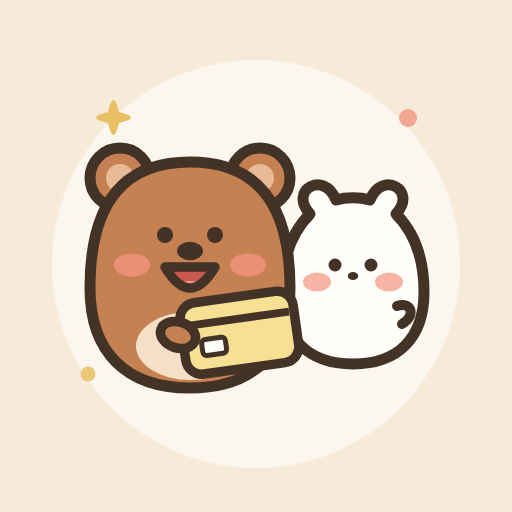
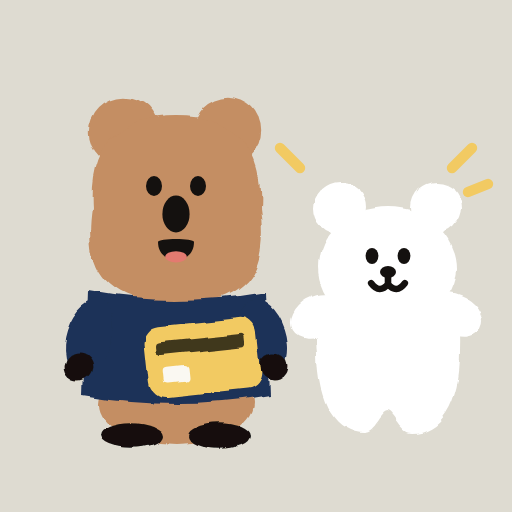
style(v13): authentic Dinotaeng lineless crayon Quokka & BOBO + oatmeal cream stationery

diff --git a/index.html b/index.html
@@ -9,41 +9,41 @@
   <meta name="apple-mobile-web-app-capable" content="yes" />
   <meta name="apple-mobile-web-app-title" content="卡神記帳" />
   <meta name="apple-mobile-web-app-status-bar-style" content="default" />
-  <meta name="theme-color" content="#FAF5EC" />
+  <meta name="theme-color" content="#ECE8DF" />
   <meta name="robots" content="noindex, nofollow" />
   <meta name="description" content="零個資風險・結合台灣信用卡權益切換提醒與圓餅圖分析的簡約奶油風記帳 App" />
   <title>卡神記帳 — 信用卡攻略 × 簡約奶油記帳</title>
-  <link rel="manifest" href="./manifest.json?v=12" />
-  <link rel="icon" type="image/png" href="./quokka-icon.png?v=12" />
-  <link rel="apple-touch-icon" href="./quokka-icon.png?v=12" />
+  <link rel="manifest" href="./manifest.json?v=13" />
+  <link rel="icon" type="image/png" href="./quokka-icon.png?v=13" />
+  <link rel="apple-touch-icon" href="./quokka-icon.png?v=13" />
   <link rel="preconnect" href="https://fonts.googleapis.com" />
   <link rel="preconnect" href="https://fonts.gstatic.com" crossorigin />
   <link href="https://fonts.googleapis.com/css2?family=Noto+Sans+TC:wght@400;500;600;700&family=Quicksand:wght@600;700&family=Zen+Maru+Gothic:wght@400;500;700&display=swap" rel="stylesheet" />
   <script src="https://cdn.tailwindcss.com"></script>
-  <script src="./qr.js?v=12"></script>
+  <script src="./qr.js?v=13"></script>
   <style>
-    /* 🧈 Quokka & BoBo 韓系簡約奶油風格 (預設跨裝置一致呈現溫暖燕麥奶色調，不受系統深色模式變黑干擾) */
+    /* 🧈 Dinotaeng Quokka & BOBO 正宗韓系簡約奶油風格 (霧面燕麥紙感 × 無黑框蠟筆插畫，不受系統深色模式變黑干擾) */
     .quokka-cream {
-      --bg-canvas: #FAF5EC;
-      --bg-surface: #FFFDF9;
-      --bg-subtle: #F4ECE0;
-      --bg-pill: #EDE2D2;
-      --text-main: #433226;
-      --text-secondary: #6E5849;
-      --text-muted: #967F70;
-      --border-hairline: #E5D7C3;
-      --accent: #B56E45;
-      --accent-soft: #F7E6D2;
-      --accent-text: #8C4E2B;
-      --bobo-butter: #F7DF94;
-      --bobo-blush: #F09884;
-      --success: #578564;
-      --success-soft: #E9F3EC;
-      --warn: #BE742A;
-      --warn-soft: #FDF0DF;
-      --danger: #C95B52;
-      --danger-soft: #FCEBE9;
-      --card-shadow: 0 8px 26px rgba(84, 58, 38, 0.055), 0 2px 6px rgba(84, 58, 38, 0.03);
+      --bg-canvas: #ECE8DF;
+      --bg-surface: #FAF8F3;
+      --bg-subtle: #EFECE4;
+      --bg-pill: #E2DFD5;
+      --text-main: #2D251E;
+      --text-secondary: #5C5044;
+      --text-muted: #8A7E70;
+      --border-hairline: #DDD7C9;
+      --accent: #C48E63;
+      --accent-soft: #F7E8BA;
+      --accent-text: #784D2A;
+      --bobo-butter: #F2CA62;
+      --bobo-blush: #E37A70;
+      --success: #4E7A5B;
+      --success-soft: #EBF3ED;
+      --warn: #B8732A;
+      --warn-soft: #FBF1DF;
+      --danger: #C64B42;
+      --danger-soft: #FCECEB;
+      --card-shadow: 0 8px 24px -6px rgba(60, 48, 36, 0.07);
     }
 
     body {
@@ -129,46 +129,54 @@
   <!-- ========================================================= -->
   <div id="accessGateOverlay" class="fixed inset-0 z-[100] bg-[var(--bg-canvas)] flex items-center justify-center p-5">
     <div class="surface-card max-w-sm w-full p-6 sm:p-7 space-y-4 text-center">
-      <div id="gateIcon" class="w-32 h-[82px] mx-auto flex items-center justify-center">
-        <svg viewBox="0 0 156 96" class="w-32 h-[82px]" fill="none" xmlns="http://www.w3.org/2000/svg" aria-hidden="true">
+      <div id="gateIcon" class="w-36 h-[92px] mx-auto flex items-center justify-center">
+        <svg viewBox="0 0 168 104" class="w-36 h-[92px]" fill="none" xmlns="http://www.w3.org/2000/svg" aria-hidden="true">
           <defs>
-            <clipPath id="gateQuokkaMouth">
-              <path d="M51 56 Q60 72 69 56 Z"/>
-            </clipPath>
+            <filter id="dtGateCrayon" x="-12%" y="-12%" width="124%" height="124%">
+              <feTurbulence type="fractalNoise" baseFrequency="0.085" numOctaves="3" seed="9" result="noise"/>
+              <feDisplacementMap in="SourceGraphic" in2="noise" scale="2.2" xChannelSelector="R" yChannelSelector="G"/>
+            </filter>
           </defs>
-          <!-- Butter Sparkle & Blush Dots -->
-          <path d="M14 20 C16 13 17 13 19 20 C26 22 26 23 19 25 C17 32 16 32 14 25 C7 23 7 22 14 20 Z" fill="#E8BF63"/>
-          <circle cx="140" cy="22" r="3.5" fill="#F09884"/>
-          <!-- BoBo Marshmallow Friend (Right) -->
-          <path d="M97 38 C89 29 102 21 107 32 C111 31 117 31 121 32 C126 21 139 29 131 38 C138 46 141 56 141 68 C141 83 131 90 114 90 C97 90 87 83 87 68 C87 56 90 46 97 38 Z"
-            fill="#FFFDF9" stroke="#433226" stroke-width="3.6" stroke-linecap="round" stroke-linejoin="round"/>
-          <ellipse cx="101" cy="64" rx="5.2" ry="3.5" fill="#F4A796" opacity="0.88"/>
-          <ellipse cx="127" cy="64" rx="5.2" ry="3.5" fill="#F4A796" opacity="0.88"/>
-          <circle cx="107.5" cy="57.5" r="2.3" fill="#433226"/>
-          <circle cx="120.5" cy="57.5" r="2.3" fill="#433226"/>
-          <ellipse cx="114" cy="61.5" rx="2" ry="1.5" fill="#433226"/>
-          <!-- Quokka Happy Friend (Left) -->
-          <circle cx="35" cy="30" r="10.5" fill="#C68152" stroke="#433226" stroke-width="3.6"/>
-          <circle cx="35" cy="30" r="4.8" fill="#E9BA98"/>
-          <circle cx="85" cy="30" r="10.5" fill="#C68152" stroke="#433226" stroke-width="3.6"/>
-          <circle cx="85" cy="30" r="4.8" fill="#E9BA98"/>
-          <path d="M24 67 C24 36 38 24 60 24 C82 24 96 36 96 67 C96 84 83 90 60 90 C37 90 24 84 24 67 Z"
-            fill="#C68152" stroke="#433226" stroke-width="3.6" stroke-linecap="round" stroke-linejoin="round"/>
-          <ellipse cx="40" cy="56" rx="6.2" ry="4" fill="#EE917B" opacity="0.9"/>
-          <ellipse cx="80" cy="56" rx="6.2" ry="4" fill="#EE917B" opacity="0.9"/>
-          <circle cx="51" cy="45" r="2.8" fill="#433226"/>
-          <circle cx="69" cy="45" r="2.8" fill="#433226"/>
-          <ellipse cx="60" cy="50.5" rx="4.6" ry="3.2" fill="#433226"/>
-          <g clip-path="url(#gateQuokkaMouth)">
-            <path d="M51 56 Q60 72 69 56 Z" fill="#C95950"/>
-            <ellipse cx="60" cy="65.5" rx="7.2" ry="4.5" fill="#F39A8E"/>
+          <!-- Authentic Dinotaeng Oatmeal Stage Backdrop so snow-white BOBO stands out with zero dark outlines -->
+          <rect x="4" y="6" width="160" height="92" rx="26" fill="#DEDBD1"/>
+          <g filter="url(#dtGateCrayon)">
+            <!-- Quokka (Left: solid caramel fur + classic Navy Sweater #1E3158 + Butter Card #F2CA62) -->
+            <circle cx="39" cy="26" r="8.4" fill="#C48E63"/>
+            <circle cx="65" cy="26" r="8.4" fill="#C48E63"/>
+            <path d="M31 44 C30 29, 38 22, 52 22 C66 22, 74 29, 73 44 C75 58, 71 67, 52 67 C33 67, 29 58, 31 44 Z" fill="#C48E63"/>
+            <ellipse cx="52" cy="87" rx="18" ry="8.5" fill="#C48E63"/>
+            <ellipse cx="41" cy="93.5" rx="7" ry="2.8" fill="#14110F"/>
+            <ellipse cx="63" cy="93.5" rx="7" ry="2.8" fill="#14110F"/>
+            <path d="M31 64 Q52 68 73 64 L74 86 Q52 90 30 86 Z" fill="#1E3158"/>
+            <ellipse cx="31" cy="74" rx="5" ry="8.5" transform="rotate(18 31 74)" fill="#1E3158"/>
+            <circle cx="28.5" cy="80.5" r="3.3" fill="#14110F"/>
+            <ellipse cx="73" cy="74" rx="5" ry="8.5" transform="rotate(-18 73 74)" fill="#1E3158"/>
+            <circle cx="75.5" cy="80.5" r="3.3" fill="#14110F"/>
+            <!-- Mini Dinotaeng Butter Credit Card -->
+            <g transform="translate(43, 71) rotate(-5)">
+              <rect x="0" y="0" width="26" height="16" rx="3.5" fill="#F2CA62"/>
+              <rect x="2.5" y="3.5" width="21" height="2.8" rx="1" fill="#14110F" opacity="0.8"/>
+              <rect x="3.5" y="9.2" width="5.5" height="3.8" rx="1" fill="#FAF8F3"/>
+            </g>
+            <!-- BOBO (Right: pure snow-white gummy bear cheering!) -->
+            <circle cx="104" cy="42" r="6.2" fill="#FFFFFF"/>
+            <circle cx="128" cy="42" r="6.2" fill="#FFFFFF"/>
+            <ellipse cx="116" cy="56" rx="16.5" ry="14" fill="#FFFFFF"/>
+            <path d="M99 76 C98 63, 105 60, 116 60 C127 60, 134 63, 133 76 C133 87, 129 93, 122 93 C119 93, 118 89, 116 89 C114 89, 113 93, 110 93 C103 93, 99 87, 99 76 Z" fill="#FFFFFF"/>
+            <ellipse cx="99" cy="68" rx="6.5" ry="4.4" transform="rotate(-28 99 68)" fill="#FFFFFF"/>
+            <ellipse cx="133" cy="68" rx="6.5" ry="4.4" transform="rotate(28 133 68)" fill="#FFFFFF"/>
           </g>
-          <path d="M51 56 Q60 72 69 56 Z" fill="none" stroke="#433226" stroke-width="3.3" stroke-linecap="round" stroke-linejoin="round"/>
-          <!-- Mini Butter Lock Card -->
-          <g transform="translate(55, 67) rotate(-6)">
-            <rect x="0" y="0" width="38" height="23" rx="5.5" fill="#F7DF94" stroke="#433226" stroke-width="3.2"/>
-            <line x1="2" y1="7.5" x2="36" y2="7.5" stroke="#433226" stroke-width="2.8"/>
-          </g>
+          <!-- Quokka & BOBO Crisp Minimalist Faces -->
+          <ellipse cx="46.5" cy="39" rx="1.9" ry="2.4" fill="#14110F"/>
+          <ellipse cx="57.5" cy="39" rx="1.9" ry="2.4" fill="#14110F"/>
+          <ellipse cx="52" cy="45.8" rx="3.3" ry="4.4" fill="#14110F"/>
+          <path d="M47.8 52.2 C47.8 51.2, 56.2 51.2, 56.2 52.2 C56.2 57.8, 47.8 57.8, 47.8 52.2 Z" fill="#14110F"/>
+          <ellipse cx="52" cy="55.6" rx="2.5" ry="1.3" fill="#E37A70"/>
+          <ellipse cx="112" cy="53" rx="1.5" ry="1.9" fill="#14110F"/>
+          <ellipse cx="120" cy="53" rx="1.5" ry="1.9" fill="#14110F"/>
+          <ellipse cx="116" cy="56.8" rx="1.9" ry="1.4" fill="#14110F"/>
+          <path d="M116 57.8 L116 59.8 M112 59.5 Q114 62 116 59.6 Q118 62 120 59.5" stroke="#14110F" stroke-width="1.55" stroke-linecap="round" stroke-linejoin="round"/>
+          <path d="M132 33 L137 28 M136 39 L141 37 M95 33 L90 28" stroke="#F2CA62" stroke-width="2.4" stroke-linecap="round"/>
         </svg>
       </div>
       <div class="space-y-1">
@@ -239,33 +247,30 @@
       <!-- 第一列：帳本切換、月份選擇、桌面重整、雲端同步/QR、連結權限鎖 -->
       <div class="flex items-center justify-between gap-1 sm:gap-2">
         <div class="flex items-center gap-1.5 sm:gap-2 min-w-0">
-          <div class="hidden sm:flex w-8 h-8 rounded-xl bg-[var(--accent-soft)] border border-[var(--border-hairline)] items-center justify-center shadow-2xs shrink-0" title="Quokka 奶油記帳">
-            <svg width="25" height="25" viewBox="0 0 40 40" class="w-[25px] h-[25px]" fill="none" xmlns="http://www.w3.org/2000/svg" aria-hidden="true">
-              <circle cx="10.5" cy="12" r="5" fill="#C68152" stroke="#433226" stroke-width="2.2"/>
-              <circle cx="10.5" cy="12" r="2.2" fill="#E9BA98"/>
-              <circle cx="29.5" cy="12" r="5" fill="#C68152" stroke="#433226" stroke-width="2.2"/>
-              <circle cx="29.5" cy="12" r="2.2" fill="#E9BA98"/>
-              <path d="M7.5 24.5 C7.5 13 12.5 8.5 20 8.5 C27.5 8.5 32.5 13 32.5 24.5 C32.5 31.5 27.5 34.5 20 34.5 C12.5 34.5 7.5 31.5 7.5 24.5 Z"
-                fill="#C68152" stroke="#433226" stroke-width="2.2" stroke-linecap="round" stroke-linejoin="round"/>
-              <ellipse cx="13" cy="22.8" rx="2.7" ry="1.8" fill="#EE917B" opacity="0.9"/>
-              <ellipse cx="27" cy="22.8" rx="2.7" ry="1.8" fill="#EE917B" opacity="0.9"/>
-              <circle cx="16.5" cy="18.5" r="1.45" fill="#433226"/>
-              <circle cx="23.5" cy="18.5" r="1.45" fill="#433226"/>
-              <ellipse cx="20" cy="20.8" rx="2" ry="1.4" fill="#433226"/>
-              <path d="M16.6 23.6 Q20 29 23.4 23.6 Z" fill="#D96B60" stroke="#433226" stroke-width="1.9" stroke-linecap="round" stroke-linejoin="round"/>
+          <div class="hidden sm:flex w-8 h-8 rounded-xl bg-[#F2CA62] items-center justify-center shadow-2xs shrink-0" title="Quokka 奶油記帳">
+            <svg width="26" height="26" viewBox="0 0 40 40" class="w-[26px] h-[26px]" fill="none" xmlns="http://www.w3.org/2000/svg" aria-hidden="true">
+              <circle cx="11.5" cy="11.5" r="5.2" fill="#C48E63"/>
+              <circle cx="28.5" cy="11.5" r="5.2" fill="#C48E63"/>
+              <path d="M7.5 24 C7 14 12.5 9.5 20 9.5 C27.5 9.5 33 14 32.5 24 C33 31.5 28 35 20 35 C12 35 7 31.5 7.5 24 Z" fill="#C48E63"/>
+              <ellipse cx="16.5" cy="18.5" rx="1.35" ry="1.65" fill="#14110F"/>
+              <ellipse cx="23.5" cy="18.5" rx="1.35" ry="1.65" fill="#14110F"/>
+              <ellipse cx="20" cy="22.8" rx="2.2" ry="3" fill="#14110F"/>
+              <path d="M17 27.2 C17 26.5, 23 26.5, 23 27.2 C23 31, 17 31, 17 27.2 Z" fill="#14110F"/>
+              <ellipse cx="20" cy="29.5" rx="1.7" ry="0.9" fill="#E37A70"/>
             </svg>
           </div>
           <span class="text-[15px] font-bold tracking-tight text-[var(--text-main)] hidden md:inline">卡神記帳</span>
           <button onclick="openProfileModal()" id="activeProfileBtn"
             class="px-2 sm:px-2.5 py-1 rounded-xl bg-[var(--bg-pill)] border border-[var(--border-hairline)] text-[12px] sm:text-[12.5px] font-semibold text-[var(--text-main)] hover:border-[var(--accent)] transition-colors flex items-center gap-1 max-w-[136px] sm:max-w-[175px] min-w-0">
             <svg width="18" height="18" viewBox="0 0 40 40" class="w-[18px] h-[18px] sm:hidden shrink-0" fill="none" xmlns="http://www.w3.org/2000/svg" aria-hidden="true">
-              <circle cx="10.5" cy="12" r="5" fill="#C68152" stroke="#433226" stroke-width="2.4"/>
-              <circle cx="29.5" cy="12" r="5" fill="#C68152" stroke="#433226" stroke-width="2.4"/>
-              <path d="M7.5 24.5 C7.5 13 12.5 8.5 20 8.5 C27.5 8.5 32.5 13 32.5 24.5 C32.5 31.5 27.5 34.5 20 34.5 C12.5 34.5 7.5 31.5 7.5 24.5 Z" fill="#C68152" stroke="#433226" stroke-width="2.4"/>
-              <circle cx="16.2" cy="19" r="1.7" fill="#433226"/>
-              <circle cx="23.8" cy="19" r="1.7" fill="#433226"/>
-              <ellipse cx="20" cy="21.5" rx="2.2" ry="1.5" fill="#433226"/>
-              <path d="M16.5 24.2 Q20 29.2 23.5 24.2 Z" fill="#D96B60" stroke="#433226" stroke-width="2"/>
+              <rect width="40" height="40" rx="11" fill="#F2CA62"/>
+              <circle cx="11.5" cy="12" r="5" fill="#C48E63"/>
+              <circle cx="28.5" cy="12" r="5" fill="#C48E63"/>
+              <path d="M7.5 24.5 C7 14.5 12.5 10 20 10 C27.5 10 33 14.5 32.5 24.5 C33 31.5 28 35 20 35 C12 35 7 31.5 7.5 24.5 Z" fill="#C48E63"/>
+              <ellipse cx="16.5" cy="19" rx="1.4" ry="1.7" fill="#14110F"/>
+              <ellipse cx="23.5" cy="19" rx="1.4" ry="1.7" fill="#14110F"/>
+              <ellipse cx="20" cy="23.2" rx="2.3" ry="3" fill="#14110F"/>
+              <path d="M17 27.5 C17 26.8, 23 26.8, 23 27.5 C23 31, 17 31, 17 27.5 Z" fill="#14110F"/>
             </svg>
             <span id="activeProfileLabel" class="truncate">我的帳本</span>
             <span class="text-[12px] text-[var(--text-muted)] shrink-0">▾</span>
@@ -416,14 +421,15 @@
       <section id="quickRecordCard" class="lg:col-span-7 surface-card p-4 sm:p-6 space-y-5">
         <div class="flex items-center justify-between gap-2">
           <div class="flex items-center gap-2 min-w-0">
-            <svg viewBox="0 0 36 36" class="w-6 h-6 shrink-0" fill="none" xmlns="http://www.w3.org/2000/svg" aria-hidden="true">
-              <path d="M10.5 11 C7 7 13 3.5 15 8.5 C17 8 19 8 21 8.5 C23 3.5 29 7 25.5 11 C29 14.5 30.5 19.5 30.5 24.5 C30.5 31 26 34 18 34 C10 34 5.5 31 5.5 24.5 C5.5 19.5 7 14.5 10.5 11 Z"
-                fill="#FFFDF9" stroke="#433226" stroke-width="2.2" stroke-linecap="round" stroke-linejoin="round"/>
-              <ellipse cx="11.8" cy="22.2" rx="2.6" ry="1.7" fill="#F4A796" opacity="0.9"/>
-              <ellipse cx="24.2" cy="22.2" rx="2.6" ry="1.7" fill="#F4A796" opacity="0.9"/>
-              <circle cx="15" cy="19.2" r="1.35" fill="#433226"/>
-              <circle cx="21" cy="19.2" r="1.35" fill="#433226"/>
-              <ellipse cx="18" cy="21" rx="1.2" ry="0.9" fill="#433226"/>
+            <svg viewBox="0 0 36 36" class="w-7 h-7 shrink-0" fill="none" xmlns="http://www.w3.org/2000/svg" aria-hidden="true">
+              <rect width="36" height="36" rx="10" fill="#DEDBD1"/>
+              <circle cx="10.8" cy="11" r="3.8" fill="#FFFFFF"/>
+              <circle cx="25.2" cy="11" r="3.8" fill="#FFFFFF"/>
+              <path d="M7.5 22.5 C7 14 11.5 10 18 10 C24.5 10 29 14 28.5 22.5 C28.5 28.5 24 31 18 31 C12 31 7.5 28.5 7.5 22.5 Z" fill="#FFFFFF"/>
+              <ellipse cx="15.5" cy="18.5" rx="1.1" ry="1.35" fill="#14110F"/>
+              <ellipse cx="20.5" cy="18.5" rx="1.1" ry="1.35" fill="#14110F"/>
+              <ellipse cx="18" cy="21" rx="1.3" ry="0.95" fill="#14110F"/>
+              <path d="M18 21.6 L18 23 M15.5 22.7 Q16.8 24.5 18 22.8 Q19.2 24.5 20.5 22.7" stroke="#14110F" stroke-width="1.2" stroke-linecap="round" stroke-linejoin="round"/>
             </svg>
             <h2 class="text-[18px] sm:text-[19px] font-bold text-[var(--text-main)] truncate">⚡ 快速記一筆</h2>
           </div>
@@ -1164,7 +1170,7 @@
         }
       });
       window.addEventListener('load', () => {
-        navigator.serviceWorker.register('./sw.js?v=12').then(reg => {
+        navigator.serviceWorker.register('./sw.js?v=13').then(reg => {
           reg.update();
           document.addEventListener('visibilitychange', () => {
             if (document.visibilityState === 'visible') {
@@ -1274,9 +1280,9 @@
       }
       return Boolean(storagePersistGranted);
     }
-    const CHART_COLORS = ['#C47A4E', '#769E7F', '#E2937B', '#DFB45A', '#85A1B5', '#A28CB0', '#A9927D'];
-    const QUOKKA_BOBO_REC_SVG = `<svg viewBox="0 0 88 56" class="w-16 h-10 shrink-0" fill="none" xmlns="http://www.w3.org/2000/svg" aria-hidden="true"><path d="M54 22 C49 16 57 11 60 18 C62.5 17.5 66.5 17.5 69 18 C72 11 80 16 75 22 C79.5 27 81.5 33.5 81.5 41 C81.5 50 75 53.5 64.5 53.5 C54 53.5 47.5 50 47.5 41 C47.5 33.5 49.5 27 54 22 Z" fill="#FFFDF9" stroke="#433226" stroke-width="2.4" stroke-linecap="round" stroke-linejoin="round"/><ellipse cx="56.5" cy="38.5" rx="3.3" ry="2.2" fill="#F4A796"/><ellipse cx="72.5" cy="38.5" rx="3.3" ry="2.2" fill="#F4A796"/><circle cx="60.5" cy="34.5" r="1.5" fill="#433226"/><circle cx="68.5" cy="34.5" r="1.5" fill="#433226"/><ellipse cx="64.5" cy="37" rx="1.3" ry="1" fill="#433226"/><circle cx="15" cy="18" r="6.8" fill="#C68152" stroke="#433226" stroke-width="2.4"/><circle cx="15" cy="18" r="3" fill="#E9BA98"/><circle cx="45" cy="18" r="6.8" fill="#C68152" stroke="#433226" stroke-width="2.4"/><circle cx="45" cy="18" r="3" fill="#E9BA98"/><path d="M8 40 C8 21 16.5 13.5 30 13.5 C43.5 13.5 52 21 52 40 C52 50 44 53.5 30 53.5 C16 53.5 8 50 8 40 Z" fill="#C68152" stroke="#433226" stroke-width="2.4" stroke-linecap="round" stroke-linejoin="round"/><ellipse cx="18" cy="33.5" rx="3.8" ry="2.5" fill="#EE917B"/><ellipse cx="42" cy="33.5" rx="3.8" ry="2.5" fill="#EE917B"/><circle cx="24.5" cy="27" r="1.8" fill="#433226"/><circle cx="35.5" cy="27" r="1.8" fill="#433226"/><ellipse cx="30" cy="30.2" rx="2.8" ry="2" fill="#433226"/><path d="M24.8 33.8 Q30 43 35.2 33.8 Z" fill="#D96B60" stroke="#433226" stroke-width="2.1" stroke-linecap="round" stroke-linejoin="round"/></svg>`;
-    const BOBO_EMPTY_SVG = `<svg viewBox="0 0 84 64" class="w-16 h-12 mx-auto" fill="none" xmlns="http://www.w3.org/2000/svg" aria-hidden="true"><path d="M18 14 C19.5 9 20.5 9 22 14 C27 15.5 27 16.5 22 18 C20.5 23 19.5 23 18 18 C13 16.5 13 15.5 18 14 Z" fill="#E8BF63"/><circle cx="67" cy="16" r="2.8" fill="#F09884"/><path d="M30 22 C24 15 33 9 37 17 C40 16.5 44 16.5 47 17 C51 9 60 15 54 22 C59.5 28 62 35.5 62 44 C62 54.5 54 58.5 42 58.5 C30 58.5 22 54.5 22 44 C22 35.5 24.5 28 30 22 Z" fill="#FFFDF9" stroke="#433226" stroke-width="2.6" stroke-linecap="round" stroke-linejoin="round"/><ellipse cx="32.5" cy="40" rx="4" ry="2.6" fill="#F4A796"/><ellipse cx="51.5" cy="40" rx="4" ry="2.6" fill="#F4A796"/><circle cx="37.2" cy="35" r="1.7" fill="#433226"/><circle cx="46.8" cy="35" r="1.7" fill="#433226"/><ellipse cx="42" cy="38" rx="1.5" ry="1.1" fill="#433226"/><rect x="35" y="45" width="14" height="10" rx="3.5" fill="#F7DF94" stroke="#433226" stroke-width="2.2"/></svg>`;
+    const CHART_COLORS = ['#C48E63', '#688B72', '#E37A70', '#F2CA62', '#6E8BA3', '#9680A3', '#9E8C7A'];
+    const QUOKKA_BOBO_REC_SVG = `<svg viewBox="0 0 92 58" class="w-16 h-10 shrink-0" fill="none" xmlns="http://www.w3.org/2000/svg" aria-hidden="true"><rect width="92" height="58" rx="16" fill="#DEDBD1"/><circle cx="17" cy="16" r="5.5" fill="#C48E63"/><circle cx="37" cy="16" r="5.5" fill="#C48E63"/><path d="M11 32 C10.5 20 17 14 27 14 C37 14 43.5 20 43 32 C43.5 42 38 48 27 48 C16 48 10.5 42 11 32 Z" fill="#C48E63"/><path d="M12 41 Q27 44 42 41 L43 52 Q27 55 11 52 Z" fill="#1E3158"/><ellipse cx="23" cy="25" rx="1.4" ry="1.8" fill="#14110F"/><ellipse cx="31" cy="25" rx="1.4" ry="1.8" fill="#14110F"/><ellipse cx="27" cy="30" rx="2.4" ry="3.2" fill="#14110F"/><path d="M23.8 35 C23.8 34.3, 30.2 34.3, 30.2 35 C30.2 39, 23.8 39, 23.8 35 Z" fill="#14110F"/><ellipse cx="27" cy="37.4" rx="1.9" ry="0.95" fill="#E37A70"/><circle cx="56" cy="24" r="4.5" fill="#FFFFFF"/><circle cx="74" cy="24" r="4.5" fill="#FFFFFF"/><path d="M51 39 C50.5 29 56 24 65 24 C74 24 79.5 29 79 39 C79 48 74 52 65 52 C56 52 51 48 51 39 Z" fill="#FFFFFF"/><ellipse cx="62" cy="33.5" rx="1.2" ry="1.5" fill="#14110F"/><ellipse cx="68" cy="33.5" rx="1.2" ry="1.5" fill="#14110F"/><ellipse cx="65" cy="36.5" rx="1.4" ry="1.1" fill="#14110F"/><path d="M65 37.2 L65 38.8 M62 38.5 Q63.5 40.5 65 38.6 Q66.5 40.5 68 38.5" stroke="#14110F" stroke-width="1.25" stroke-linecap="round" stroke-linejoin="round"/></svg>`;
+    const BOBO_EMPTY_SVG = `<svg viewBox="0 0 88 66" class="w-16 h-12 mx-auto" fill="none" xmlns="http://www.w3.org/2000/svg" aria-hidden="true"><rect x="6" y="4" width="76" height="58" rx="18" fill="#DEDBD1"/><circle cx="31" cy="18" r="5.2" fill="#FFFFFF"/><circle cx="57" cy="18" r="5.2" fill="#FFFFFF"/><path d="M25 38 C24.5 24 32 17 44 17 C56 17 63.5 24 63 38 C63 50 56 56 44 56 C32 56 25 50 25 38 Z" fill="#FFFFFF"/><ellipse cx="40" cy="30" rx="1.4" ry="1.75" fill="#14110F"/><ellipse cx="48" cy="30" rx="1.4" ry="1.75" fill="#14110F"/><ellipse cx="44" cy="33.8" rx="1.7" ry="1.25" fill="#14110F"/><path d="M44 34.7 L44 36.6 M40.4 36.2 Q42.2 38.6 44 36.4 Q45.8 38.6 47.6 36.2" stroke="#14110F" stroke-width="1.4" stroke-linecap="round" stroke-linejoin="round"/><rect x="35" y="43" width="18" height="11" rx="3" fill="#F2CA62"/><rect x="37" y="45.5" width="14" height="2" rx="0.8" fill="#14110F" opacity="0.75"/></svg>`;
     const WEEKDAY_NAMES = ['週日', '週一', '週二', '週三', '週四', '週五', '週六'];
 
     // 以使用者本機時區計算 YYYY-MM-DD（避免清晨時區偏差）

diff --git a/sw.js b/sw.js
@@ -1,4 +1,4 @@
-const CACHE_NAME = 'lazy-card-tracker-v12';
+const CACHE_NAME = 'lazy-card-tracker-v13';
 const ASSETS = ['./', './index.html', './manifest.json', './qr.js', './quokka-icon.png'];
 
 self.addEventListener('install', event => {
